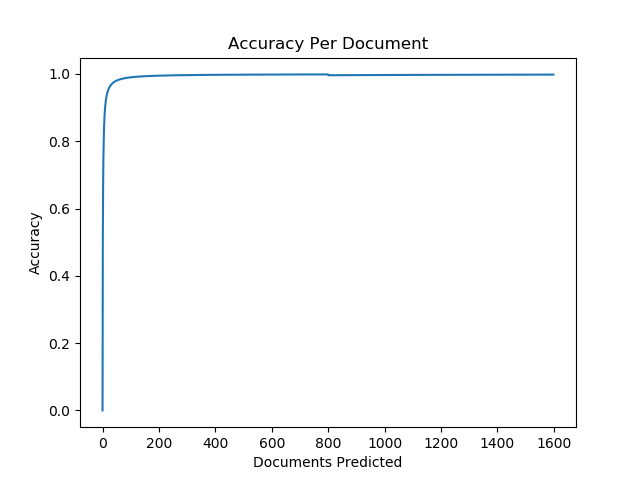
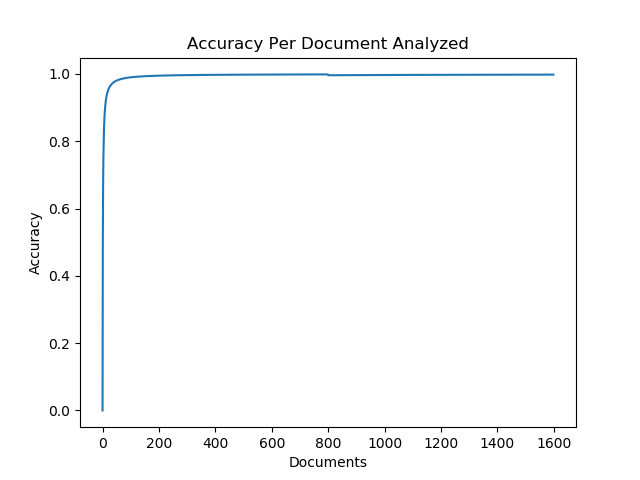
Images

Changed region(s): [[0.2812, 0.0625, 0.75, 0.125], [0.4062, 0.9375, 0.625, 1.0]]

diff --git a/lab1/main.py b/lab1/main.py
@@ -146,9 +146,9 @@ class Nlp:
             if self.debug:
                 print("------------------------")
                 print("iteration", i + 1)
-                print("total errors", errors)
-                print("accuracy %", 1- (errors/len(self.training_documents)))
-                print("doc count", self.training_documents)
+                print("errors", errors)
+                print("doc count", len(self.training_documents))
+                print("accuracy", 1- (errors/len(self.training_documents)))
                 print("------------------------")
             self.errors_per_iteration.append(1 - (errors/len(self.training_documents)))
             # self.calculate_average_weights(c)
@@ -269,7 +269,7 @@ def process_data(nlp):
 print("Exercise 1 a")
 print("------------------------")
 nlp = Nlp()
-nlp.debug = True
+# nlp.debug = True
 nlp.process_training_data('review_polarity/txt_sentoken/neg/', negative_label)
 
 nlp.process_training_data('review_polarity/txt_sentoken/pos/', positive_label)
@@ -277,7 +277,7 @@ nlp.process_training_data('review_polarity/txt_sentoken/pos/', positive_label)
 nlp.process_test_data('review_polarity/txt_sentoken/pos/', positive_label)
 nlp.process_test_data('review_polarity/txt_sentoken/neg/', negative_label)
 # 1 repetition without shuffling the training data
-nlp.calculate_weights_bag_of_words(True)
+nlp.calculate_weights_bag_of_words(False)
 
 # n repetitions and shuffling the training data
 # nlp.calculate_weights(50, True)
@@ -286,7 +286,7 @@ nlp.calculate_weights_bag_of_words(True)
 # nlp.calculate_weights_averaged(20) # accuracy .59
 print("------------------------")
 print("Plot Learning Curve")
-title = "Accuracy Per Iteration"
+title = "Accuracy Per Document"
 ylabel = 'Accuracy'
 xlabel = 'Documents'
 nlp.plot_errors(title,xlabel,ylabel)
@@ -301,7 +301,7 @@ nlp.print_evaluation()
 print("------------------------")
 print("Perceptron 2")
 nlp2 = Nlp()
-nlp2.debug = True
+# nlp2.debug = True
 
 nlp2.process_training_data('review_polarity/txt_sentoken/pos/', positive_label)
 nlp2.process_training_data('review_polarity/txt_sentoken/neg/', negative_label)
@@ -327,3 +327,33 @@ print("------------------------")
 print("Evaluate data")
 nlp2.evaluate_test_data()
 nlp2.print_evaluation()
+
+print("------------------------")
+print("Perceptron 3")
+nlp3 = Nlp()
+nlp3.debug = True
+
+nlp3.process_training_data('review_polarity/txt_sentoken/pos/', positive_label)
+nlp3.process_training_data('review_polarity/txt_sentoken/neg/', negative_label)
+
+nlp3.process_test_data('review_polarity/txt_sentoken/pos/', positive_label)
+nlp3.process_test_data('review_polarity/txt_sentoken/neg/', negative_label)
+# 1 repetition without shuffling the training data
+# nlp2.calculate_weights(1, False)
+
+# n repetitions and shuffling the training data
+# nlp3.calculate_weights(23, True)
+
+nlp3.calculate_weights_averaged(18) # accuracy .61
+# nlp2.calculate_weights_averaged(20) # accuracy .59
+print("------------------------")
+print("Plot Learning Curve")
+title = "Accuracy Per Iteration"
+ylabel = 'Accuracy'
+xlabel = 'Iterations'
+nlp3.plot_errors(title,xlabel,ylabel)
+
+print("------------------------")
+print("Evaluate data")
+nlp3.evaluate_test_data()
+nlp3.print_evaluation()
